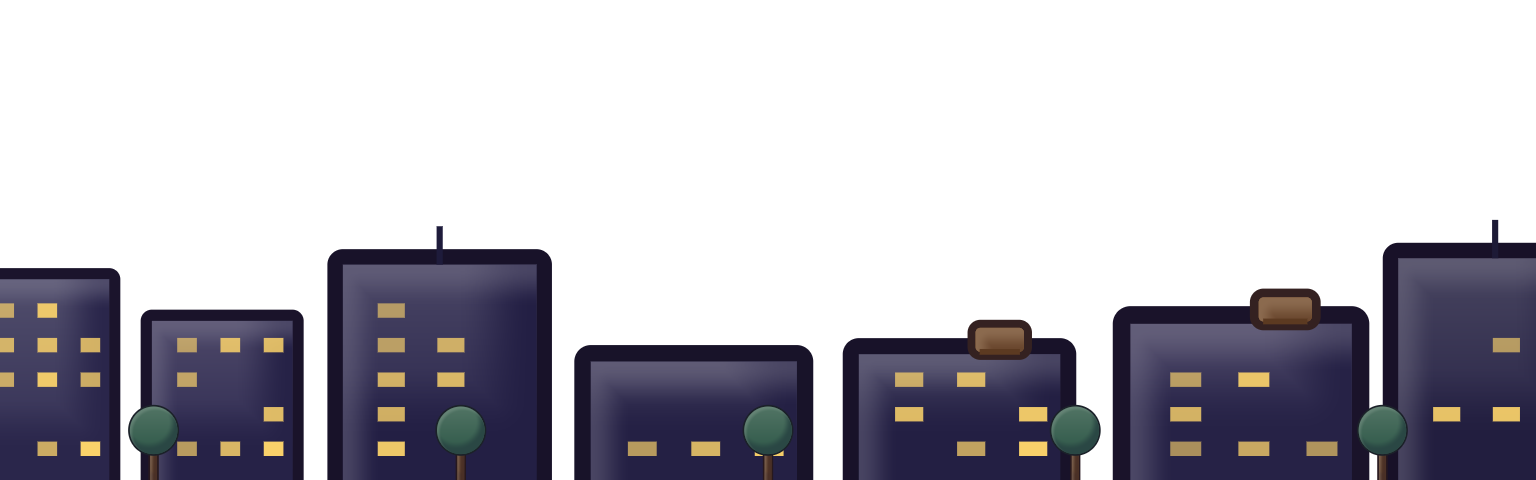
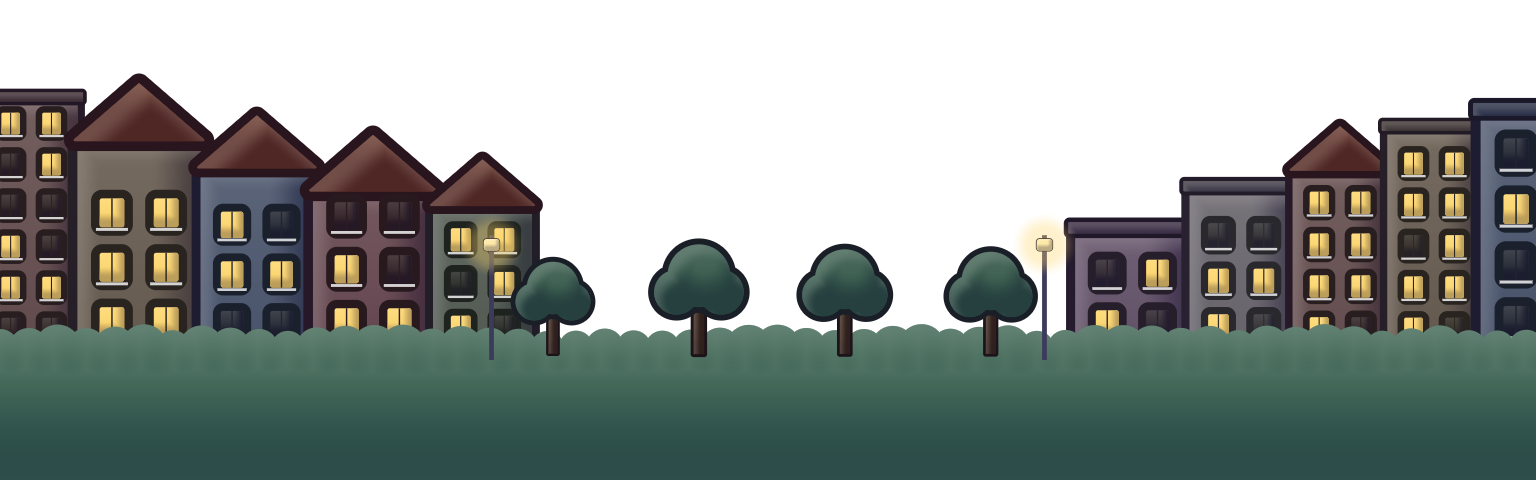
Ville : vraies maisons de ville colorées et parc au premier plan
Les immeubles du premier plan étaient presque entièrement cachés par le trottoir (moignons qui sortaient du sol). ArtPack régénéré, ArtVersion 18.

Claude-Session: https://claude.ai/code/session_01GjF5pVKpWLsxsJrgQmasFX

diff --git a/Assets/Bascule/Scripts/Core/SceneBiomes.cs b/Assets/Bascule/Scripts/Core/SceneBiomes.cs
@@ -186,6 +186,7 @@ namespace Bascule.Core
 
         static void Skyline(Raster img, Theme t, Rgba color, GameRng rng, int w, int h, bool far)
         {
+            if (!far) { CityStreet(img, t, rng, w, h); return; }
             int n = far ? 14 : 8;
             float x = -w * 0.02f;
             var lit = Rgba.FromHex("#FFD66B");
@@ -226,6 +227,82 @@ namespace Bascule.Core
                     Toon.Part(img, Shape.Circle(tx, s * 1.15f, s * 0.55f), (t.Night ? Rgba.FromHex("#2F5A4A") : Rgba.FromHex("#58B56A")), s, Prop);
                 }
             }
+        }
+
+        /// <summary>
+        /// Premier plan de la ville : le bas de cette image est caché par le trottoir (environ le quart du bas). On y met
+        /// une haie de parc continue, des arbres au centre, et de hautes maisons de ville colorées sur les côtés,
+        /// assez hautes pour être vues entières au-dessus du trottoir (comme les chalets du village).
+        /// </summary>
+        static void CityStreet(Raster img, Theme t, GameRng rng, int w, int h)
+        {
+            float hidden = h * 0.27f;
+            string[] facades = { "#E9A37A", "#F2D17C", "#8FB8DE", "#E7867A", "#A7C97F", "#D9A5C9", "#F4EBDD" };
+            var hedgeC = t.Night ? Rgba.FromHex("#2F5A4A") : Rgba.FromHex("#58B56A");
+            // Maisons de ville, collées les unes aux autres, sur chaque côté.
+            int fi = 0;
+            for (int side = 0; side < 2; side++)
+            {
+                float x = side == 0 ? -w * 0.01f : w * 0.7f, end = side == 0 ? w * 0.3f : w * 1.01f;
+                while (x < end)
+                {
+                    float bw = w * (0.06f + rng.NextFloat() * 0.025f);
+                    // Plus hautes vers le bord de l'écran, plus basses vers le centre.
+                    float edge = side == 0 ? 1f - x / end : (x - w * 0.7f) / (end - w * 0.7f);
+                    float bh = hidden + h * (0.24f + edge * 0.22f + rng.NextFloat() * 0.08f);
+                    var face = Rgba.FromHex(facades[fi++ % facades.Length]);
+                    if (t.Night) face = Rgba.Lerp(face, t.NearHills, 0.55f).Shade(0.7f);
+                    TownHouse(img, x + bw * 0.5f, bw, bh, hidden, face, t.Night, rng);
+                    x += bw;
+                }
+            }
+            // Haie du parc, continue, qui dépasse juste au-dessus du trottoir.
+            Shape hedge = Shape.Box(w * 0.5f, hidden * 0.5f, w * 0.6f, hidden * 0.5f + 2);
+            for (float x = 0; x <= w; x += h * 0.06f)
+                hedge = Shape.Union(hedge, Shape.Circle(x, hidden + h * 0.005f, h * (0.035f + rng.NextFloat() * 0.015f)));
+            Toon.Part(img, hedge, hedgeC, w, Flat);
+            // Arbres du parc et réverbères au centre.
+            for (int i = 0; i < 4; i++)
+            {
+                float tx = w * (0.36f + i * 0.095f), s = h * (0.13f + rng.NextFloat() * 0.03f);
+                Toon.Part(img, Shape.Box(tx, hidden + s * 0.35f, s * 0.07f, s * 0.4f), Rgba.FromHex("#5C3A21").Shade(t.Night ? 0.6f : 1f), s, Prop);
+                var crown = Shape.Union(Shape.Circle(tx, hidden + s * 1.0f, s * 0.42f), Shape.Circle(tx - s * 0.3f, hidden + s * 0.78f, s * 0.3f), Shape.Circle(tx + s * 0.3f, hidden + s * 0.78f, s * 0.3f));
+                Toon.Part(img, crown, hedgeC.Shade(0.9f), s * 2, Prop);
+            }
+            for (int i = 0; i < 2; i++)
+            {
+                float lx = w * (0.32f + i * 0.36f), top = hidden + h * 0.22f;
+                img.Fill(Shape.Box(lx, (hidden + top) * 0.5f, h * 0.005f, (top - hidden) * 0.5f + h * 0.02f), Rgba.FromHex("#3D3B5C"));
+                if (t.Night) img.Fill(Shape.Circle(lx, top, h * 0.05f), Rgba.FromHex("#FFD66B").WithAlpha(0.35f), h * 0.04f);
+                Toon.Part(img, Shape.Box(lx, top, h * 0.016f, h * 0.012f, h * 0.006f), t.Night ? Rgba.FromHex("#FFE9A3") : Rgba.FromHex("#F4F1DE"), h * 0.05f, Prop);
+            }
+        }
+
+        /// <summary>Maison de ville étroite : façade colorée, corniche ou pignon, fenêtres à volets (allumées la nuit).</summary>
+        static void TownHouse(Raster img, float cx, float bw, float bh, float hidden, Rgba face, bool night, GameRng rng)
+        {
+            var body = Shape.Box(cx, bh * 0.5f, bw * 0.5f, bh * 0.5f);
+            Toon.Part(img, body, face, bw * 2, Prop);
+            // Toit : pignon pointu ou corniche plate.
+            if (rng.NextFloat() < 0.5f)
+                Toon.Part(img, Shape.Poly(cx - bw * 0.52f, bh, cx + bw * 0.52f, bh, cx, bh + bw * 0.45f).Grow(bw * 0.01f), Rgba.FromHex("#B5533C").Shade(night ? 0.55f : 1f), bw * 2, Prop);
+            else
+                Toon.Part(img, Shape.Box(cx, bh + bw * 0.04f, bw * 0.56f, bw * 0.05f, bw * 0.01f), face.Shade(0.8f), bw, Prop);
+            // Fenêtres, seulement dans la partie visible.
+            var glassDay = Rgba.FromHex("#BDE6FF");
+            var lit = Rgba.FromHex("#FFD66B");
+            float wh = bw * 0.26f;
+            for (float wy = hidden + wh * 0.9f; wy < bh - wh * 0.8f; wy += wh * 1.7f)
+                for (int k = -1; k <= 1; k += 2)
+                {
+                    float wx = cx + k * bw * 0.22f;
+                    bool on = !night || rng.NextFloat() < 0.6f;
+                    var g = night ? (on ? lit : face.Shade(0.45f)) : glassDay;
+                    var win = Shape.Box(wx, wy, bw * 0.1f, wh * 0.45f, bw * 0.02f);
+                    Toon.Part(img, win, g, bw, new Toon.Style { Outline = 0.07f, OutlineColor = face.Shade(0.45f), Shade = 0.08f, Rim = 0f, Specular = false });
+                    img.FillClipped(win, Shape.Box(wx, wy, bw * 0.006f, wh), face.Shade(0.5f), 1f);
+                    img.Fill(Shape.Box(wx, wy - wh * 0.52f, bw * 0.13f, bw * 0.012f), Rgba.White.WithAlpha(0.8f)); // appui
+                }
         }
 
         // ------------------------------------------------------------------ Volcan

diff --git a/Assets/Bascule/Scripts/Runtime/Game/ArtCache.cs b/Assets/Bascule/Scripts/Runtime/Game/ArtCache.cs
@@ -355,7 +355,7 @@ namespace Bascule
         /// <summary>
         /// À augmenter à chaque modification des dessins (Core/*Art*.cs) : les images en cache sont alors redessinées.
         /// </summary>
-        public const int ArtVersion = 17;
+        public const int ArtVersion = 18;
 
         static string _cacheDir;
 

diff --git a/docs/VERSIONS.md b/docs/VERSIONS.md
@@ -4,14 +4,14 @@ Chaque zip porte son numéro (Bascule_V3.zip = version 3.0, affichée dans Régl
 
 ## Prochaine version (après la 1.3) – mondes, tenues, coffre, partage
 - **Petit village en bois dès le début** (`Core/Village.cs`) : sur les collines de la prairie (0 à 5 500 points), chalets en rondins au toit rouge, cheminées qui fument, jardinières fleuries, barrière de bois ; au loin des cabanes et un moulin à vent. La nuit, les fenêtres s'allument. Les chalets restent sur les côtés : Basile et sa planche restent bien dégagés.
-- **14 mondes jusqu'à 30 000** (`Core/SceneBiomes.cs`, `Theme.All`, `Difficulty.ThemeScores`) : la prairie au fil de la journée (0 à 4 000), puis la **plage** (5 500 : mer, voilier, palmiers, coquillages), la **forêt** (7 000 : sapins, champignons), le **désert** (9 000 : mesas, dunes, cactus), la **montagne** (11 500 : sommets enneigés, sapins sous la neige), la **ville** (14 000) et **la ville la nuit** (17 000, fenêtres allumées), le **volcan** (20 000 : cratère, coulées et fissures de lave), la **banquise** (23 500 : icebergs, igloo, pingouin) et la **Lune** (27 000 : cratères, drapeau, la Terre dans le ciel, pas de nuages).
+- **14 mondes jusqu'à 30 000** (`Core/SceneBiomes.cs`, `Theme.All`, `Difficulty.ThemeScores`) : la prairie au fil de la journée (0 à 4 000), puis la **plage** (5 500 : mer, voilier, palmiers, coquillages), la **forêt** (7 000 : sapins, champignons), le **désert** (9 000 : mesas, dunes, cactus), la **montagne** (11 500 : sommets enneigés, sapins sous la neige), la **ville** (14 000 : gratte-ciel au loin, devant des rangées de maisons de ville colorées et un parc avec arbres et réverbères) et **la ville la nuit** (17 000, fenêtres allumées), le **volcan** (20 000 : cratère, coulées et fissures de lave), la **banquise** (23 500 : icebergs, igloo, pingouin) et la **Lune** (27 000 : cratères, drapeau, la Terre dans le ciel, pas de nuages).
 - **Au-delà de 30 000** : un monde déjà vu revient tous les 3 000 points dans une autre teinte (7 teintes : rose, lavande, or, menthe, corail, violet, citron vert). 63 décors différents avant la moindre répétition, sans aucune image en plus.
 - **Mémoire** : seuls le monde affiché et le suivant sont chargés ; le suivant se charge pendant la partie, les autres sont libérés (décor du joueur et de l'adversaire en duel pris en compte).
 - **Une tenue par tête** (`Core/Outfits.cs`, `Core/OutfitArt.cs`) : 63 tenues toutes différentes, assorties au personnage (marinière du Pirate, robe étoilée du Magicien, robe royale du Roi, combinaison spatiale de l'Astronaute, pyjama étoilé de l'Endormi, maillot du Champion, costume du Gentleman…). Hauts : débardeur, t-shirt, pull à col roulé, sweat à capuche, maillot, chemise, blouson ouvert, costume, robe, combinaison. Bas : short, pantalon, jean, jogging. Chaussures : baskets, montantes, bottes, chaussures de ville. Motifs (rayures, fines rayures, pois, étoiles, carreaux) et écussons (B, étoile, cœur, éclair, lune, couronne, anneau). La tenue suit la tête choisie et ne change jamais en pleine partie. Clé de corps `peau_h<id>`. Mémoire : seuls les corps affichés et les deux derniers quittés restent chargés (`ArtCache.UseMascot`) ; images des corps en ASTC 6×6 (`Editor/ArtPackImport.cs`).
 - **Coffre** : se déverrouille en tapant n'importe où sur l'écran ; ondes de choc et confettis à chaque tap, couleur qui monte (or, orange, rose, violet), rayon de lumière, ouverture avec trois anneaux arc-en-ciel et pluie de confettis, compteur de pièces qui défile, tête gagnée qui tourne sur elle-même. Nouveau dessin : bande dorée rivetée, pierres bleues, étoile sur le couvercle, intérieur plus lumineux.
 - **Partage** : la vraie fenêtre de partage d'iOS (Messages, Snap, Insta…) avec l'image du score (`Plugins/iOS/BasculeShare.mm`), et celle d'Android ; avant, sans paquet NativeShare, le jeu se contentait de copier le texte (« texte copié »).
 - **Nouvelles têtes** : pastille rouge avec le nombre sur le bouton Têtes de l'accueil et sur chaque onglet de la collection, étiquette « NOUVEAU ! » sur la tête ; la collection s'ouvre sur l'onglet des nouveautés, la pastille disparaît une fois vues.
-- ArtPack régénéré, `ArtVersion` 17. 162 tests.
+- ArtPack régénéré, `ArtVersion` 18. 162 tests.
 
 ## V1.3 (1.3, build 4) – duel en direct, annonce de rafale, prêt pour la validation Apple
 - **Duel en temps réel entre amis** (`Core/Duel.cs`, `Runtime/Duel/`, `UI/DuelScreens.cs`) :
